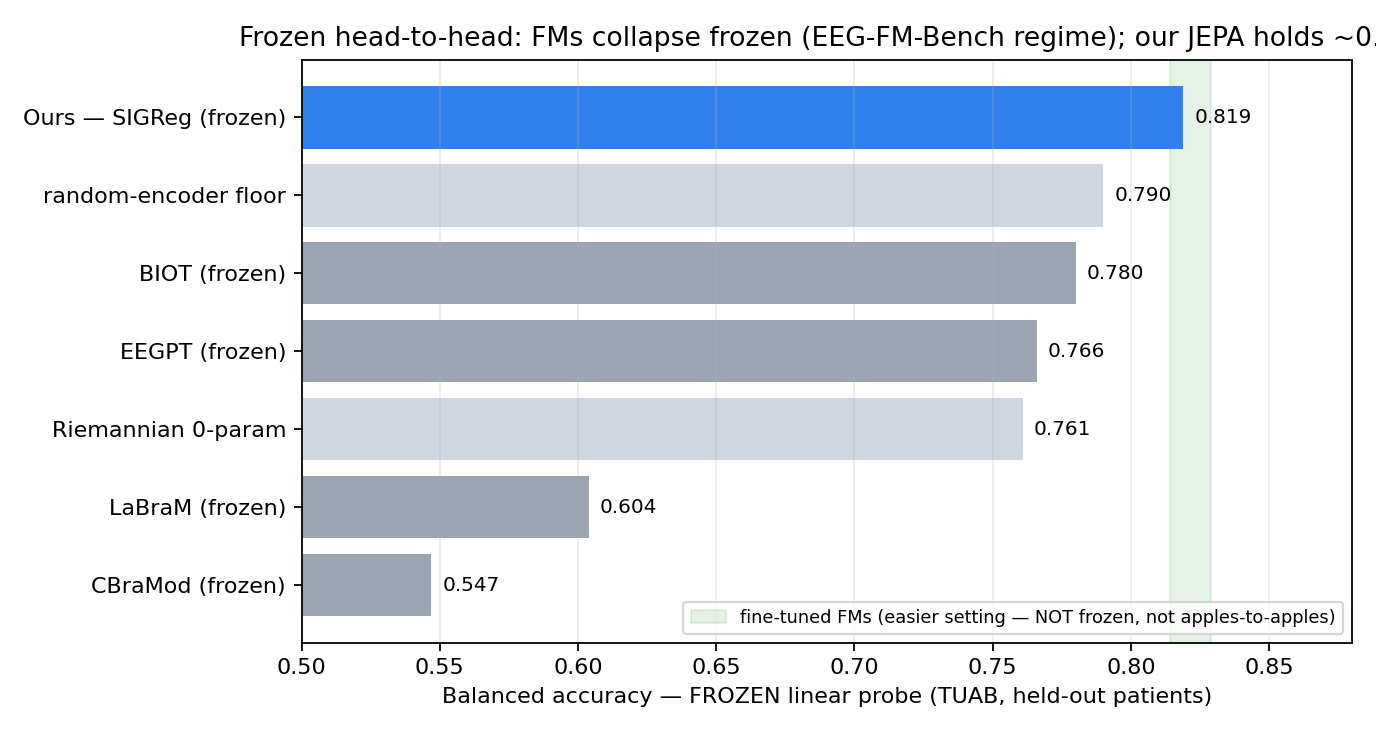
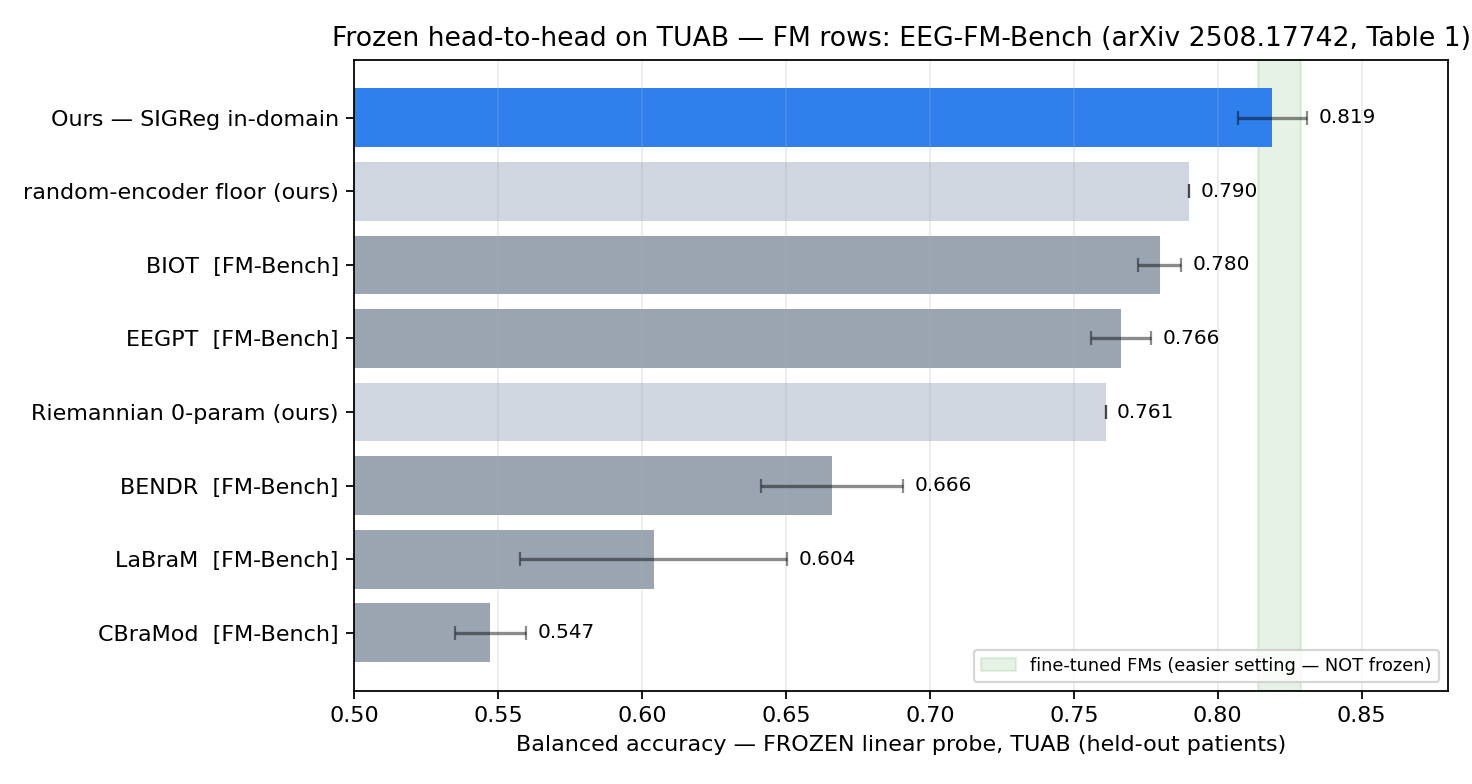
figs: cite EEG-FM-Bench (2508.17742) frozen numbers; add TUEV cross-task head-to-head
- frozen_headtohead.py: exact EEG-FM-Bench Table-1 frozen TUAB values (+ BENDR,
  + std error bars); our bar labelled IN-DOMAIN (general-pretrain TUSZ bar pending)
- frozen_headtohead_tuev.py: TUEV 6-class frozen cross-task — ours 0.425 (TUAB->TUEV)
  beats LaBraM/CBraMod/BENDR frozen, ~BIOT, < EEGPT; chance + random floor shown

Changed region(s): [[0.0, 0.0312, 1.0, 0.9688]]

diff --git a/examples/eeg/frozen_headtohead_tuev.py b/examples/eeg/frozen_headtohead_tuev.py
@@ -1,0 +1,56 @@
+"""Frozen cross-TASK head-to-head on TUEV — apples-to-apples FROZEN linear-probe.
+
+Foundation-model numbers: EEG-FM-Bench (Cui et al., arXiv 2508.17742, Table 1,
+frozen strategy), TUEV 6-class balanced accuracy — quoted verbatim, not re-measured.
+Ours = TUAB-pretrained SIGReg encoder, FROZEN, cross-task linear-probe on TUEV (our
+window design). Both sides are frozen and NEITHER pretrained on TUEV -> a fair
+cross-task frozen comparison. The honest baseline the random-encoder floor alone
+could not provide.
+
+⚠️ CAVEAT TO VERIFY before the jury: our encoder pretrained on TUAB-train; some
+TUEV-eval patients may overlap TUAB-train patients (TUH shares patients across
+corpora) -> potential leakage. Check the TUEV-eval ∩ TUAB-train patient overlap.
+
+Run (local, no GPU):  python examples/eeg/frozen_headtohead_tuev.py
+"""
+import os
+
+import matplotlib
+matplotlib.use("Agg")
+import matplotlib.pyplot as plt  # noqa: E402
+
+# (label, balanced_acc, std, kind)   FM rows: EEG-FM-Bench Table 1 (frozen, TUEV 6-class)
+BARS = [
+    ("BENDR  [FM-Bench]", 0.1667, 0.0000, "frozen_fm"),
+    ("CBraMod  [FM-Bench]", 0.2106, 0.0022, "frozen_fm"),
+    ("LaBraM  [FM-Bench]", 0.3148, 0.0527, "frozen_fm"),
+    ("random-encoder floor (ours)", 0.3258, None, "floor"),
+    ("Ours — TUAB→TUEV (frozen, cross-task)", 0.4252, None, "ours"),
+    ("BIOT  [FM-Bench]", 0.4369, 0.0213, "frozen_fm"),
+    ("EEGPT  [FM-Bench]", 0.4983, 0.0960, "frozen_fm"),
+]
+CHANCE = 1.0 / 6.0
+
+bars = sorted(BARS, key=lambda b: b[1])
+labels = [b[0] for b in bars]
+vals = [b[1] for b in bars]
+errs = [b[2] if b[2] else 0.0 for b in bars]
+cmap = {"ours": "#2f80ed", "frozen_fm": "#9aa5b1", "floor": "#cfd6df"}
+colors = [cmap[b[3]] for b in bars]
+
+fig, ax = plt.subplots(figsize=(9.4, 4.6))
+ax.axvline(CHANCE, color="gray", ls=":", lw=1.2, label=f"chance (1/6 = {CHANCE:.3f})")
+ax.barh(labels, vals, xerr=errs, color=colors, capsize=3, error_kw=dict(alpha=0.45))
+for i, v in enumerate(vals):
+    ax.text(v + errs[i] + 0.004, i, f"{v:.3f}", va="center", fontsize=9)
+ax.set_xlim(0.15, 0.63)
+ax.set_xlabel("Balanced accuracy — FROZEN linear probe, TUEV 6-class (held-out patients)")
+ax.set_title("Frozen cross-task on TUEV — FM rows: EEG-FM-Bench (arXiv 2508.17742, Table 1)")
+ax.legend(fontsize=8, loc="lower right")
+ax.grid(axis="x", alpha=0.25)
+fig.tight_layout()
+
+out = os.path.normpath(os.path.join(os.path.dirname(__file__), "..", "..",
+                                    "results", "benchmark", "frozen_headtohead_tuev.png"))
+fig.savefig(out, dpi=160)
+print(f"saved {out}")

diff --git a/examples/eeg/frozen_headtohead.py b/examples/eeg/frozen_headtohead.py
@@ -1,18 +1,11 @@
-"""Frozen head-to-head on TUAB — the apples-to-apples comparison EEG-FM-Bench proposes.
+"""Frozen head-to-head on TUAB — apples-to-apples FROZEN linear-probe (jury figure).
 
-EVERY bar is FROZEN linear-probe balanced accuracy (encoder frozen, only a linear
-head is fit). This is the regime EEG-FM-Bench audits, where foundation models
-*collapse* — and where our in-domain JEPA holds ~0.82. The fine-tuned FM band is a
-DIFFERENT, easier setting (weights updated) and is shown shaded for context only;
-it is NOT an apples-to-apples comparison to a frozen probe (this is the exact
-mislabelling we are fixing — the old value_of_ssl figure only showed that band).
-
-NUMBERS — verify against the cited sources before the jury:
-  frozen FMs : todo.md "frozen linear probe (consistent protocol)" / EEG-FM-Bench
-               frozen-backbone TUAB collapse (LaBraM 0.604, CBraMod 0.547,
-               EEGPT 0.766, BIOT 0.780).
-  ours/random/riemann : measured locally (ours = 3-seed mean, SIGReg-ambient).
-  fine-tuned band     : LaBraM-Base .. CBraMod fine-tuned (benchmark.yaml).
+All bars are FROZEN linear-probe balanced accuracy (encoder frozen, only a linear
+head is fit). Foundation-model numbers are quoted VERBATIM from EEG-FM-Bench
+(Cui et al., arXiv 2508.17742, Table 1, frozen strategy) — we cite, we did not
+re-measure. Our SIGReg bar is IN-DOMAIN (pretrained on TUAB-train); the
+apples-to-apples general-pretrain bar (TUSZ -> frozen TUAB) is added once it lands.
+The fine-tuned FM band is a different, easier setting — shaded for context only.
 
 Run (local, no GPU):  python examples/eeg/frozen_headtohead.py
 """
@@ -22,33 +15,35 @@ import matplotlib
 matplotlib.use("Agg")
 import matplotlib.pyplot as plt  # noqa: E402
 
-# (label, balanced_acc, kind)   kind: ours | frozen_fm | floor
+# (label, balanced_acc, std, kind)   FM rows: EEG-FM-Bench Table 1 (frozen, TUAB)
 BARS = [
-    ("CBraMod (frozen)", 0.547, "frozen_fm"),
-    ("LaBraM (frozen)", 0.604, "frozen_fm"),
-    ("Riemannian 0-param", 0.761, "floor"),
-    ("EEGPT (frozen)", 0.766, "frozen_fm"),
-    ("BIOT (frozen)", 0.780, "frozen_fm"),
-    ("random-encoder floor", 0.790, "floor"),
-    ("Ours — SIGReg (frozen)", 0.819, "ours"),
+    ("CBraMod  [FM-Bench]", 0.5473, 0.0124, "frozen_fm"),
+    ("LaBraM  [FM-Bench]", 0.6040, 0.0464, "frozen_fm"),
+    ("BENDR  [FM-Bench]", 0.6659, 0.0246, "frozen_fm"),
+    ("Riemannian 0-param (ours)", 0.7610, None, "floor"),
+    ("EEGPT  [FM-Bench]", 0.7664, 0.0104, "frozen_fm"),
+    ("BIOT  [FM-Bench]", 0.7798, 0.0075, "frozen_fm"),
+    ("random-encoder floor (ours)", 0.7900, None, "floor"),
+    ("Ours — SIGReg in-domain", 0.8190, 0.0120, "ours"),
 ]
 FT_BAND = (0.814, 0.829)  # fine-tuned FMs — easier setting, NOT a frozen probe
 
 bars = sorted(BARS, key=lambda b: b[1])
 labels = [b[0] for b in bars]
 vals = [b[1] for b in bars]
+errs = [b[2] if b[2] else 0.0 for b in bars]
 cmap = {"ours": "#2f80ed", "frozen_fm": "#9aa5b1", "floor": "#cfd6df"}
-colors = [cmap[b[2]] for b in bars]
+colors = [cmap[b[3]] for b in bars]
 
-fig, ax = plt.subplots(figsize=(8.6, 4.6))
+fig, ax = plt.subplots(figsize=(9.2, 4.9))
 ax.axvspan(*FT_BAND, color="green", alpha=0.10,
-           label="fine-tuned FMs (easier setting — NOT frozen, not apples-to-apples)")
-ax.barh(labels, vals, color=colors)
+           label="fine-tuned FMs (easier setting — NOT frozen)")
+ax.barh(labels, vals, xerr=errs, color=colors, capsize=3, error_kw=dict(alpha=0.45))
 for i, v in enumerate(vals):
-    ax.text(v + 0.004, i, f"{v:.3f}", va="center", fontsize=9)
+    ax.text(v + errs[i] + 0.004, i, f"{v:.3f}", va="center", fontsize=9)
 ax.set_xlim(0.5, 0.88)
-ax.set_xlabel("Balanced accuracy — FROZEN linear probe (TUAB, held-out patients)")
-ax.set_title("Frozen head-to-head: FMs collapse frozen (EEG-FM-Bench regime); our JEPA holds ~0.82")
+ax.set_xlabel("Balanced accuracy — FROZEN linear probe, TUAB (held-out patients)")
+ax.set_title("Frozen head-to-head on TUAB — FM rows: EEG-FM-Bench (arXiv 2508.17742, Table 1)")
 ax.legend(fontsize=8, loc="lower right")
 ax.grid(axis="x", alpha=0.25)
 fig.tight_layout()